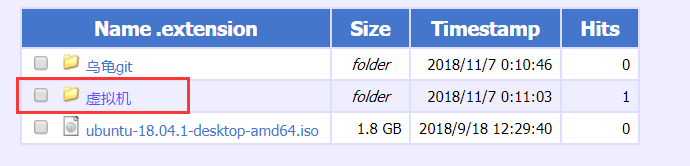
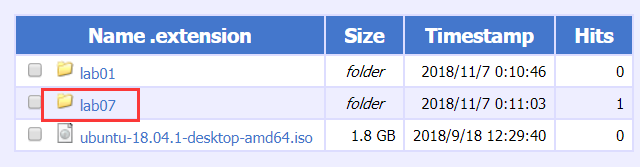
change folder "虚拟机" to "lab01" and "乌龟git" to "lab01"

diff --git a/002(forlab07.md b/002(forlab07.md
@@ -68,7 +68,7 @@ title: 使用vbox新建WinXP虚拟机来打开辣个CPU模拟页面
 > 我的文件全是从****那里弄过来的：光盘镜像我不知道怎么弄；jre1.6 的话我从甲骨文（Oracle）那里下载似乎是要账号，但是我没有账号。。。所以。。。
 
 我嫌度盘太慢，就把文件放到了  
-1. 使用http服务器下载：<a href="http://172.18.40.173/" target="_blank">点我</a>打开下载页面，`虚拟机`文件夹中的两个文件就是，点击下载即可。  
+1. 使用http服务器下载：<a href="http://172.18.40.173/" target="_blank">点我</a>打开下载页面，`lab07`文件夹中的两个文件就是，点击下载即可。  
 ![](images/002/http01.png)  
 ![](images/002/http02.png)
 
